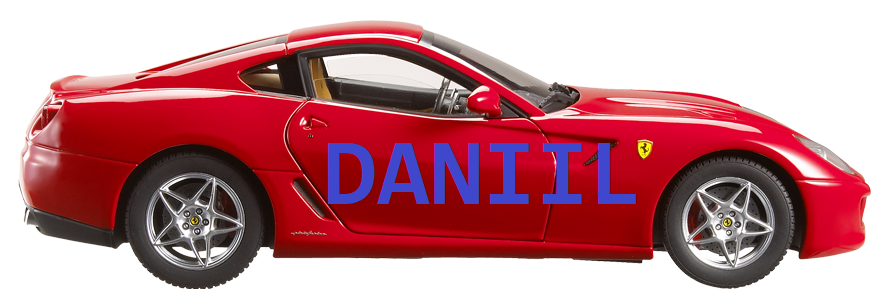
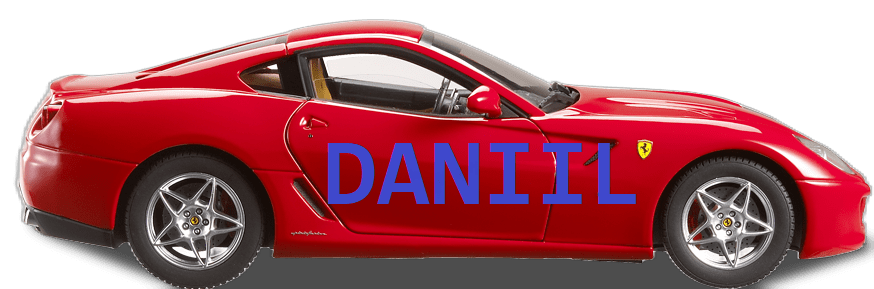
UPDATE

diff --git a/HomeWork5/javascript.js b/HomeWork5/javascript.js
@@ -1,11 +1,15 @@
 'use strict';
 
-let road = document.querySelector('.track');
-let cars= document.querySelectorAll('.car');
-
+let road = document.querySelector('.track'); //гоночный трек
+let cars= document.querySelectorAll('.car'); //Массив машин
+let statistic = document.querySelector('.statistic'); //статистика
+const {form} = document.forms;
 const distance = road.clientWidth; //Расстояние
 const widthCar = document.querySelectorAll('.car')[0].clientWidth; //Ширина машины (по сути блока DIV). Они все одинаковые
 
+let userPlayser = document.getElementById('choosePlayer'); //Выбор пользователя игрока
+let userPlaces = document.getElementById('place'); //Выбор пользователя места
+let userBet = document.getElementById('bet'); //Ставка пользователя
 
 class Player { //Класс игрок
     constructor(fio, car){
@@ -16,7 +20,7 @@ class Player { //Класс игрок
     }
 
     showInfo(){
-        return `Расстояние: ${distance} px\nВремя:${this.passTime} ms\nСкорость:${distance/this.passTime} px/ms`;
+        return `Игрок: ${this.fio}. Расстояние: ${distance} px. Время: ${this.passTime} ms. Скорость: ${distance/this.passTime} px/ms\n`;
     }
 }
 
@@ -29,8 +33,10 @@ let players = [new Player('Max', cars[0]),
 
 let btnStart= document.getElementById('start'); //кнопка старта
 
-btnStart.addEventListener('click', function(event){
+function getFormData(event){
     event.preventDefault();
+    writeStatistic(`Выбранный игрок: ${userPlayser.options[userPlayser.selectedIndex].text}. Выбранное место: ${userPlaces.value}. Ваша ставка: ${userBet.value}\n\n`);
+    btnStart.disabled = true;
     let start = Date.now(); //Время старта
     let timer = setInterval(function() {
         for (const race of players) {
@@ -46,11 +52,30 @@ btnStart.addEventListener('click', function(event){
         let notFinished = players.filter(player=>player.finished===false).length; //Количество не финишировавших
         if (notFinished===0){
             clearInterval(timer);
-            console.log(players);
+            players.sort(compare);
             players.forEach(function(entry){
-                  alert(entry.showInfo());
+                writeStatistic(entry.showInfo());
             });
+            infoAboutWinnings();
+            writeStatistic('\nДля запуска новой игры обновите страницу!');
         }
       }, 20);
+}
 
-});
+function writeStatistic(info) { //Запись статистики в DIV
+    statistic.innerText+=info;
+}
+
+function compare(player1, player2){ //для сортировки массива с целью определения победителя
+    if (player1.passTime > player2.passTime) return 1;
+    if (player1.passTime == player2.passTime) return 0;
+    if (player1.passTime < player2.passTime) return -1;
+}
+
+function infoAboutWinnings(){
+    let playerUserPlace = players.map(x=>x.fio).indexOf(userPlayser.options[userPlayser.selectedIndex].text) + 1;
+    writeStatistic(`\nВаш игрок занял ${playerUserPlace} место.`);
+}
+
+form.addEventListener('submit', getFormData);
+

diff --git a/HomeWork5/index.html b/HomeWork5/index.html
@@ -16,7 +16,7 @@
         </div>
         <div class="road">
             <div class="track">
-                <div class="car"><img src="Ivan.jpg" alt="Ivan"></div>
+                <div class="car"><img src="Ivan.png" alt="Ivan"></div>
             </div>
         </div>
         <div class="road">
@@ -41,16 +41,16 @@
         </div>
     </div>
 
-    <form>
+    <form action="/" method="get" id="form">
         <div>
             <label for="choosePlayer">Выберите игрока:</label>
             <select name="userChoosePlayer" id="choosePlayer">
-                <option value="Max">Max</option>
-                <option value="Ivan">Ivan</option>
-                <option value="Marat">Marat</option>
-                <option value="Daniil">Daniil</option>
-                <option value="Nikita">Nikita</option>
-                <option value="Nikita">Daria</option>
+                <option value="Player1">Max</option>
+                <option value="Player2">Ivan</option>
+                <option value="Player3">Marat</option>
+                <option value="Player4">Daniil</option>
+                <option value="Player5">Nikita</option>
+                <option value="Player6">Daria</option>
             </select>
         </div>
         <div>
@@ -63,16 +63,11 @@
         </div>
         <div>
             <label for="bet">Введите вашу ставку:</label>
-            <input type="number" name="userBet" id="bet" min="100" value="1000">
+            <input type="number" name="userBet" id="bet" min="1000" required value="1000" placeholder="Введите вашу ставку">
         </div>
         <input type="submit" value="Запустить гонки!" id="start">
     </form>
-
-
+    <div class="statistic"></div>
     <script src="javascript.js"></script>
-
-
-
-
 </body>
 </html>

diff --git a/HomeWork5/style.css b/HomeWork5/style.css
@@ -5,21 +5,32 @@
     flex-direction: column;
 }
 
+.statistic{
+    padding-top: 30px;
+    font-size: 30px;
+}
+
+.road, .car{
+    height: 100px;
+}
+
 .road{
-    height: 7vh;
-    border: 1px dashed green;
+    border: 4px dashed black;
+    background-image: url(road.jpg);
+    background-size: cover;
 }
 
 .car{
     position: absolute;
     width: 300px;
-    height: 7vh;
 }
 
 .track{
     width: calc(100% - 300px);
     height: 100%;
-    border-right: 3px solid;
+    border-right: 3px solid red;
+    position: relative;
+
 }
 
 img{
@@ -43,9 +54,4 @@ form label{
 form div{
     margin-top: 20px;
     margin-bottom: 20px;
-}
-#test{
-    width: 25%;
-    height: 100px;
-    font-size:xx-large;
 }
